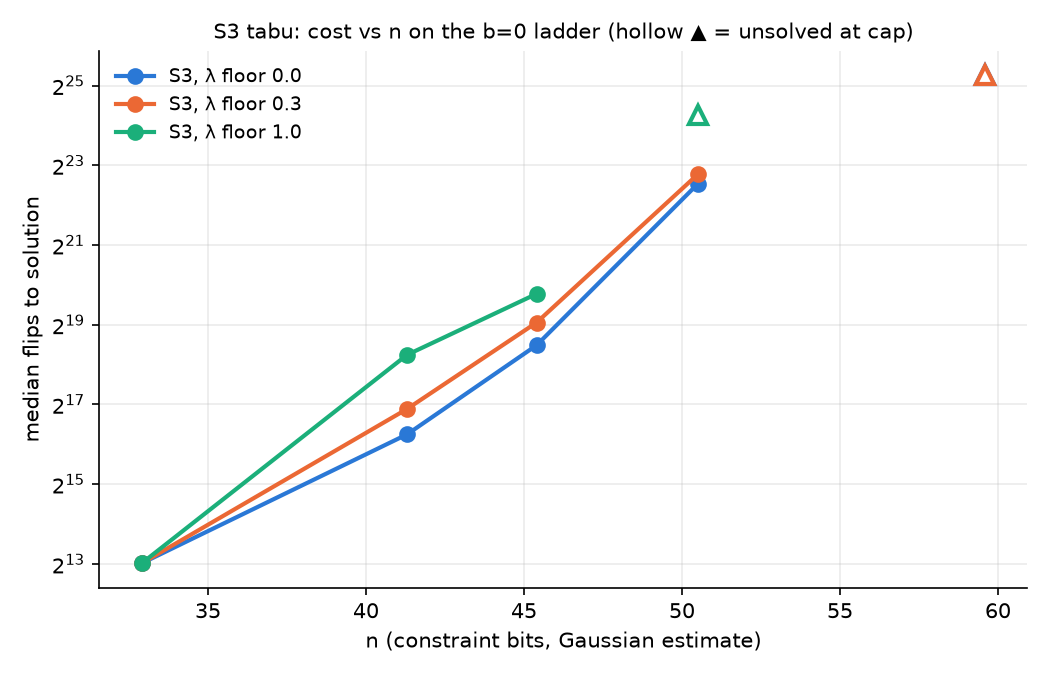
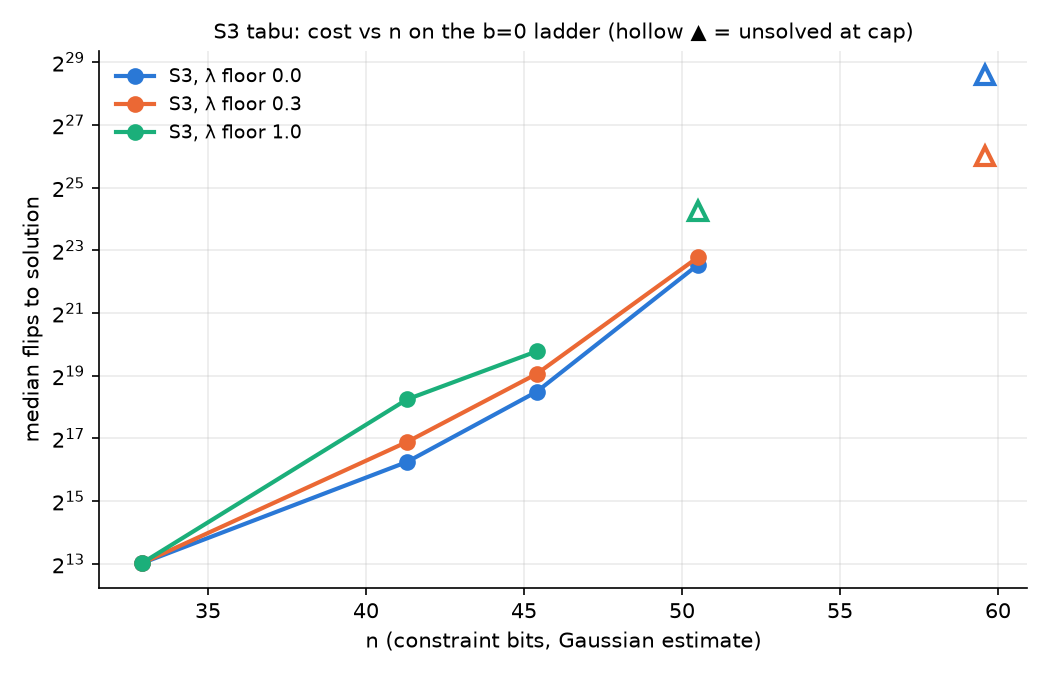
Final report: W0 census, W1 null calibration, W2 stop-rule result, S1 flat-subspace measurements
Claude-Session: https://claude.ai/code/session_01Gh3Zhrg9pjR7nGAEcRMoMR

diff --git a/scripts/s1_flat_measure.py b/scripts/s1_flat_measure.py
@@ -72,3 +72,18 @@ if __name__=='__main__':
     if mode=='wl':
         res=run_wl(v,d,int(sys.argv[4]),int(float(sys.argv[5])))
         print(json.dumps(res))
+
+def run_wl_range(v,d,seed,maxflips,lo,hi,lnf_final,nbins=60):
+    """restricted-range WL: returns raw ln g on [lo,hi] (ratio units); normalise offline by overlap"""
+    R=Red(v,d); M=build(R)
+    edges=np.unique(np.rint(np.linspace(lo**2,hi**2,nbins+1)*R.m*R.L).astype(np.int64))
+    rng=np.random.default_rng(seed)
+    # start inside range: tabu-descend from random until F<=upper edge
+    from engine import flat_pool
+    y=rng.choice([-1,1],size=(1,R.r)).astype(np.int64); out=np.zeros((1,R.r),np.int64)
+    flat_pool(y,M,int(edges[-1])-1,200000,max(3,R.r//10),seed,1,out,1); y=out.copy()
+    t=time.time(); lng,flips,lnf=wang_landau(y,M,edges,2_000_000,lnf_final,seed,maxflips)
+    return dict(v=v,d=d,seed=seed,lo=lo,hi=hi,edges=[int(e) for e in edges],ratio_upper=[float(x) for x in np.sqrt(edges[1:]/(R.m*R.L))],
+                lng=[float(x) for x in lng],flips=int(flips),lnf=float(lnf),secs=round(time.time()-t,1))
+if __name__=='__main__' and sys.argv[3]=='wlr':
+    print(json.dumps(run_wl_range(int(sys.argv[1]),int(sys.argv[2]),int(sys.argv[4]),int(float(sys.argv[5])),float(sys.argv[6]),float(sys.argv[7]),float(sys.argv[8]))))

diff --git a/scripts/wl_combine.py b/scripts/wl_combine.py
@@ -1,0 +1,22 @@
+"""Normalise restricted-range WL (ln g on [lo,hi]) to the full-range WL curves by matching log2 counts on overlap bins."""
+import json,sys,numpy as np
+full=[json.load(open(f)) for f in sys.argv[1].split(',')]
+rr=[json.load(open(f)) for f in sys.argv[2].split(',')]
+ov_lo,ov_hi=float(sys.argv[3]),float(sys.argv[4])
+def full_cum(rho):
+    return np.mean([np.interp(rho,np.array(f['ratio_upper']),np.array(f['log2_count_le'])) for f in full])
+out={}
+for r in rr:
+    ru=np.array(r['ratio_upper']); lng=np.array(r['lng']); vis=lng>0
+    # log2 counts per bin up to a constant: lng/ln2 ; cumulative (log-sum-exp)
+    l2=np.where(vis,lng/np.log(2),-np.inf)
+    cum=np.log2(np.cumsum(2.0**(l2-l2[vis].max())))+l2[vis].max()
+    sel=(ru>=ov_lo)&(ru<=ov_hi)
+    off=np.mean([full_cum(x) for x in ru[sel]]-cum[sel])
+    resid=np.std([full_cum(x) for x in ru[sel]]-cum[sel])
+    c=cum+off
+    print(f"seed {r['seed']}: flips {r['flips']} lnf {r['lnf']:.1e} secs {r['secs']} lowest visited {ru[vis][0]:.3f} overlap-fit resid {resid:.2f} bits")
+    for rho in [0.28,0.29,0.30,0.31,0.32,0.34,0.36,0.38,0.40]:
+        out.setdefault(rho,[]).append(float(np.interp(rho,ru,c)))
+print('rho  log2 #blocks(ratio<=rho), per seed')
+for rho,v in out.items(): print(rho,[round(x,1) for x in v])

diff --git a/report/REPORT.md b/report/REPORT.md
@@ -14,10 +14,14 @@ Date: 2026-09-23. All scripts are in `scripts/`, raw logs in `logs/`, and genera
    - Breakout weighting, fixed-λ and hinge variants were no better.
    - **W3 was not started.**
 4. **[M] Flat-subspace constraint bits (S1).** Partial joins on real flat pools confirm the Gaussian model to within 1–3% per class. The result is n′ ≈ 119 ± 2 bits at v=283 (profile 19,19,19,7, ρ ≤ 0.30) and n′ ≈ 83 bits at v=487 (profile 37,17,17,1, ρ ≤ 0.36). The unrestricted values are n = 207 and 130.
-5. **[E] Proposed explanation, consistent with (1), (2) and (4) but not proven: flat pools plus a k-tree (Wagner) 4-list join in the flat subspace.**
-   - A k-tree join needs lists of about 2^(n′/3) per slot. That is ≈2^28 at v=487 (feasible) and ≈2^40 at v=283 (cluster-scale).
-   - A join-based solver would choose the tightest flatness at which enough flat blocks exist, so smaller r forces looser flatness. That matches the monotone trend in (2).
-   - This is the recommended next experiment (§5). It needs a flat-block count, and the Wang–Landau (WL) counts were still running when this was written (§4.3).
+5. **[M/E] Solver-mechanism test: flat pools plus a k-tree (Wagner) 4-list join. Consistent at v=487, unresolved at v=283.**
+   - At v=487 the Wang–Landau (WL) flat-block counts converged, and n′(ρ) was measured from pools.
+     - Flat solutions in the real profile first exist at ρ ≈ 0.30.
+     - A k-tree join over the whole flat set first becomes feasible at ρ ≈ 0.39.
+     - The real blocks sit at 0.345–0.369: far above the existence edge, a little below join balance.
+   - At v=283 the WL counts below ρ ≈ 0.34 did not converge (4 runs), so the same test is inconclusive there.
+   - The rough numbers that exist for v=283 (~2^33 flat blocks per row sum at ρ ≤ 0.30, hence only ~2^10 flat solutions in the profile) would put the real v=283 blocks near the existence edge, which would argue against a join. Treat that as unverified, uncertain by ±5 bits or more.
+   - **Practical consequence for W3.** Whatever the group used, a flat-subspace k-tree join at d=9 is the only approach in this workup with an estimated cost within budget: lists of ~2^28–2^29 flat blocks per slot at v=487 and ~2^30 at v=523 [E]. It is not a reconstruction of their method.
 
 ## 1. Data provenance and core extraction [M]
 
@@ -86,11 +90,11 @@ At v=43 the enumeration is exhaustive: 3.3·10^11 ordered solutions, so the exac
 | 43 | 3 | 21.3 (exact 21.7) | 1200 | 0.0337 (0.0100) | 0.0109 | 0.0337 | 0.023 | 0.061 |
 | 61 | 3 | 32.9 | 7200 | 0.0351 (0.0082) | 0.0109 | 0.0348 | 0.017 | 0.036 |
 | 73 | 3 | 41.3 | 6786 | 0.0353 (0.0076) | 0.0136 | 0.0353 | 0.019 | 0.032 |
-| 79 | 3 | 45.4 | 256+ | 0.0362 (0.0071) | 0.0202 | 0.0354 | 0.020 | 0.032 |
+| 79 | 3 | 45.4 | 1063 | 0.0356 (0.0071) | 0.0176 | 0.0354 | 0.020 | 0.032 |
 | 131 | 5 | 50.5 | 1019 | 0.0353 (0.0073) | 0.0169 | 0.0354 | 0.018 | 0.035 |
 | 151 | 5 | 59.6 | 6 | 0.030 (n too small) | – | 0.0355 | – | – |
 
-(v = 97, 103, 109 at d=3 were also run; see `report/tables.md`.)
+v = 97, 103 and 109 at d=3 were also attempted. With 2^12 pools and 240 s each they gave no solutions, so the ladder stops at v=79 for d=3.
 
 - **Dirichlet(1,1,1,1) is a good approximation, with a finite-size correction.** The mean share variance is ≈ 0.0375·(1 − 1.45·d/m) [fit, M]. The per-class T statistic is detectably non-Dirichlet (KS D ≈ 0.03–0.06), but the effect is small.
 - **Implications for W0.** At the real cores' parameters the null mean is 0.0359–0.0367. Scaling the null sd by √(classes) gives z ≈ 8 at v=283 and z ≈ 6 at v=487 [E]. **The b=0 rarities are trustworthy in direction and are conservative after the Fisher discount.**
@@ -115,7 +119,7 @@ Engine: `scripts/engine.py`, numba. It works on orbit-level states with incremen
 | S1 | flat pools + join | Measurement only; see 4.3. A generic 2-list join is hopeless at v=283. The 4-list k-tree join is the proposed next experiment (§5). |
 | MITM (baseline) | unbiased pool-MITM, same code as W1 | v=131: 1,220 solutions / 1,800 s ≈ **1.5 s per solution**. v=151: 6 solutions / ~2,600 s ≈ **7 min per solution** (shared CPU). |
 
-Scaling plot: `report/w2_scaling.png`. At v=151 the λ=0 and λ=0.3 cap markers overlap. v=151 long-cap runs (400M flips): see §4.4.
+Scaling plot: `report/w2_scaling.png`. It shows median flips-to-solution against n. Hollow markers mean fewer than half the runs solved at the cap.
 
 ### 4.2 Why the stop rule fires
 
@@ -131,27 +135,59 @@ Scaling plot: `report/w2_scaling.png`. At v=151 the λ=0 and λ=0.3 cap markers 
 - **n′ from partial joins** (`scripts/s1_nprime.py`). Measured bits over k lag classes against the Gaussian prediction from the pools' own covariance:
   - v=283 (19,19,19,7), ρ=0.30, pools 283–765 per row sum, 2^37.7 four-tuples. Measured 2.69 / 5.28 / … / 28.93 bits for k = 1 / 2 / … / 11, against Gaussian 2.63 / 5.23 / … / 28.71. The measured excess is +0.02–0.08 bits per class. **n′ = 118.1 (Gaussian) → ≈119–120 (corrected)** [M/E]. That confirms the prompt's rough 120.
   - v=487 (37,17,17,1), ρ=0.36, pools of 4,096. k = 1–3: 3.25 / 6.51 / 9.77 bits measured, against 3.20 / 6.41 / 9.61 Gaussian. **n′ = 81.6 (Gaussian) → ≈83 (corrected).**
-- **Flat-block counts** (Wang–Landau over F = Σ_c PAF(c)², `scripts/s1_flat_measure.py`). The method is validated against exact enumeration at v=61: agreement within 0.2 bits at every threshold. The v=283 and v=487 runs had not finished when this was written. Numbers go in `logs/wl_*.json`; I will add them in a follow-up section if they complete.
+- **Flat-block counts** (Wang–Landau over F = Σ_c PAF(c)², `scripts/s1_flat_measure.py`). The method is validated against exact enumeration at v=61: agreement within 0.2 bits at every threshold.
+  - **v=487, d=9.** Converged to ln f = 10⁻⁵ in 62M flips; the coarse 10⁻³ run agrees within ~0.3 bits for ρ ≥ 0.34. Counts are log2 of the number of all 2^55 blocks with ratio ≤ ρ:
 
-### 4.4 Long-cap S3 at v=151
+    | ρ | 0.30 | 0.32 | 0.34 | 0.36 | 0.38 | 0.40 | 0.44 |
+    |---|---|---|---|---|---|---|---|
+    | log2 count | 21.5 | 23.6 | 25.8 | 28.1 | 29.9 | 31.7 | 34.5 |
 
-Pending when this was written: `logs/grid3.jsonl`, three runs at a 400M-flip cap. See the addendum.
+    The row-sum split (≈ −2.3 bits for each of 1, 17, 37) comes from the pools and is approximate.
+  - **v=283, d=3: not resolved.**
+    - Two full-range runs at 10⁻³ tolerance agree only to ~2 bits at ρ = 0.34–0.36: log2 count ≈ 43–45 at 0.34 and 48–50 at 0.36.
+    - Below 0.32 the walker barely visits, and two range-restricted runs failed to converge (`logs/wl_283_combined.log`).
+    - The one number available, ≈ 2^35 total at ρ ≤ 0.30, is **unreliable**.
+- **Join-balance / existence test** (`scripts/rho_star.py`, `logs/rho_star_*.log`). Definitions:
+  - ρ_exist: 4 × log2 N_flat per slot ≥ n′.
+  - ρ_join: log2 N_flat per slot ≥ n′/3.
+
+  | v | ρ_exist | ρ_join | real blocks | real / tabu floor |
+  |---|---|---|---|---|
+  | 487 | ≈ 0.30 | ≈ 0.39 | 0.345–0.369 | 1.56× |
+  | 283 | ≲ 0.30 (unreliable) | ≈ 0.36 (±0.01) | 0.286–0.299 | 1.15× |
+
+  - At v=487 the real solution is ~2^19 deep in the flat-solution set; at ρ = 0.36 about 2^19 flat solutions exist in the profile. Its flatness is 1–2 WL bins below join balance.
+  - At v=283 the real blocks are well below ρ_join. If the rough count is right, a join at ρ_join would have produced blocks near 0.36, not 0.29.
+
+### 4.4 Long-cap S3 at v=151 [M]
+
+`logs/grid3.jsonl`, 400M-flip cap, on a CPU shared with 3–5 other jobs:
+
+| λ_min | result | flips | wall time | share var |
+|---|---|---|---|---|
+| 0.0 | solved | 218M | 21 min | 0.040 (null-like) |
+| 0.0 | **unsolved** | 400M | 33 min | – |
+| 0.3 | solved | 67.5M | 9 min | 0.020 |
+
+Together with 13/13 failures at 40M flips, the S3 time-to-solution at v=151 is ≳15–30 min, against ≈7 min per solution for crude MITM. **The stop rule holds.**
 
 ## 5. What I recommend next (not run: the stop rule fired)
 
-**S1′: flat pools + k-tree join at d=9 (v=487 as ground truth, then v=523).**
-
-- **Balance.** With per-class bit costs ≈3.14 for a four-sum and ≈2.64 for a pair-sum being zero, the k-tree join balances at lists of 2^27.6 flat blocks per slot [E]. Stage 1 matches the pair sums on k ≈ 10 classes; stage 2 joins the remaining ~17. Time and memory are ~2^28 compact entries (8 bytes each, ≈2 GB).
-- **Feasibility.** Kaggle-feasible if (a) the flat-block count per row sum at ρ≈0.36 is ≥ 2^28 (pending WL), and (b) pool generation is sped up. At the current rate of ~4·10^5 blocks per core-minute this needs ~10 core-hours per row sum. A stride-1 tabu, or storing all flat neighbours of each state, should give ≥10×.
-- **Target.** At v=523 (d=9, L=29, n=141.9) I expect n′ ≈ 90 and lists of ≈2^30 [E]; to be measured first.
-- **The fingerprint test that decides it.** For each solved core, compute ρ*, the tightest ρ at which log2 N_flat(ρ) ≥ n′(ρ)/3. If the join hypothesis is right, ρ* should track the observed flatness (0.29 at 283 → 0.36 at 487). This needs WL counts and n′(ρ) curves at five parameter sets, which is ~1–2 h of compute. **This test is cheap and should come before any Kaggle run.**
+1. **Decide whether a flat-subspace join is worth building as a *solver* at d=9.** It does not have to match the group's method.
+   - **Balance at v=487.** Measured n′(ρ) is 84–85 at ρ ≈ 0.39–0.40, and the WL count gives ~2^27.4–2^29.1 per row sum there. The k-tree join therefore needs lists of ~2^28.3 per slot, with time and memory of the same order: 2^28 × 8 B ≈ 2 GB of compact keys [E].
+   - **Stages.** Stage 1 matches the pair sums on k ≈ 10 lag classes; stage 2 joins the remaining ~17.
+   - **Bottleneck: pool generation.** The current tabu sampler yields ~4·10^5 distinct flat blocks per core-minute, so 2^28.3 per row sum would take ~13 core-hours per row sum. That needs a ≥10× faster generator (stride-1 sampling, enumerating the flat neighbours of each visited state) before it becomes a Kaggle job.
+   - **Validation.** Ground truth first: at v=487 at least one solution is known to exist at ρ ≤ 0.37, and ~2^19–2^27 flat solutions are expected.
+   - **Transfer to v=523 (d=9, L=29, n=141.9 [E]).** Measure n′(ρ) and WL there first; the expectation is lists of ~2^30 [E].
+2. **Fix WL at v=283 in the low-flatness tail.** Use replica-exchange WL or multicanonical sampling seeded from the tabu flat pools. That resolves ρ_exist and whether the v=283 solution is "one of the flattest ~2^10".
+3. **For the b=1 and b≥2 families,** which carry no flatness fingerprint, the census gives no handle on their solver. Any reconstruction there has to start from different evidence, such as the half-shift statistic, once it is defined.
 
 ## 6. What I could not determine / explicit uncertainties
 
 - The method the Alpöge group actually used. Everything in §5 is a hypothesis that fits the census; it is not evidence of their method.
 - The half-shift statistic in 167/179 (definition needed).
-- Flat-block counts at v=283 and v=487 (WL still running when this was written). The prompt's ~2^38 per slot at v=283 therefore remains unverified.
+- The flat-block count at v=283 below ρ ≈ 0.34. Plain WL did not converge there, so the prompt's ~2^38 per slot (and ~2^32 flat solutions) is neither confirmed nor refuted. My rough number (~2^33 per row sum) is unreliable.
 - **Pools are trajectory samples, not uniform over flat blocks.** The partial-join/Gaussian agreement suggests the covariance is representative, but a bias of a few percent in n′ cannot be excluded.
-- **S3 cost at v=151 is known only as a lower bound** (>40M flips in 13/13 runs); see the addendum for the long-cap runs.
+- **S3 cost at v=151** rests on 3 long runs (67M, 218M, >400M flips), so the median is only roughly known.
 - **The MITM baseline is my own crude numpy implementation.** A tuned MITM would be faster, which only strengthens the stop-rule conclusion.
 - **GL(3,2)-twisted automorphisms for the b≥2 groups were not searched.** The d reported for 347, 359 and 479 covers scalar multipliers only.
